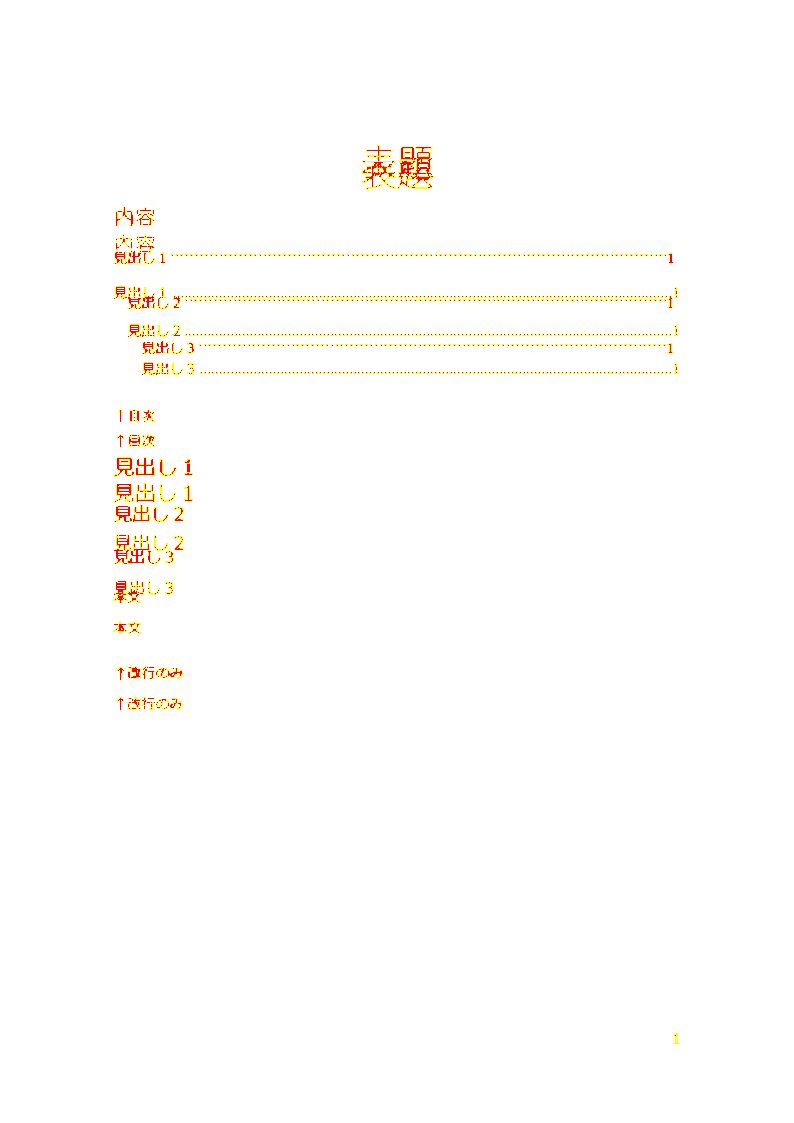
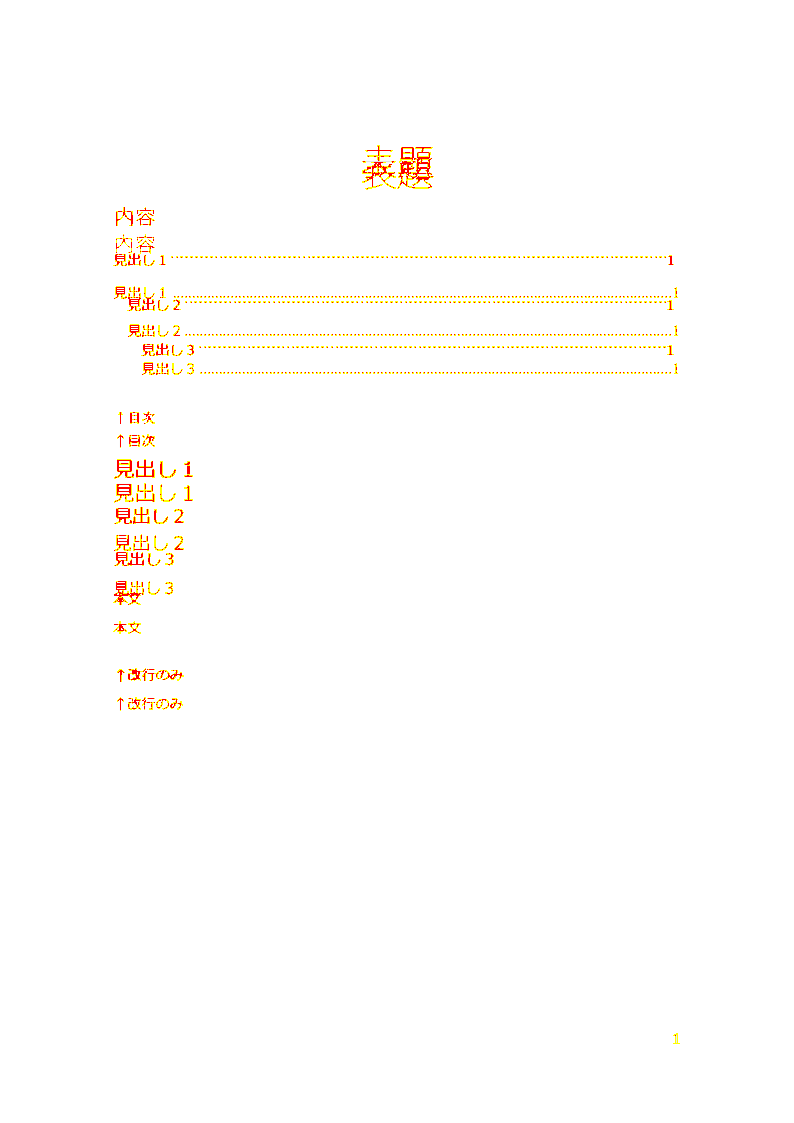
1. mixed-font line-height握り潰し（gdi-line-height.ts/inline-renderer.ts、コミット済み）— 段落が子run描画前にline-height確定、子側が別フォント(例:見出し1本文はメイリオ)でも継承値見て補正スキップしてた。forceオプションで修正。検証済み・回帰なし。 2. docGrid spacing、段落固有propsだけ見てた（inline-renderer.ts、未コミット・作業ツリーに残ってる）— style側のspacing(before/after/line)を無視して「明示spacing無し」判定→docGrid

diff --git a/src/rendering/dom/elements/inline-renderer.ts b/src/rendering/dom/elements/inline-renderer.ts
@@ -26,16 +26,21 @@ export async function renderParagraph(
 	const children = ctx.resolveFieldRuns(elem.children);
 	oParagraph.dataset.uuid = elem.uuid;
 	ctx.renderClass(elem, oParagraph);
-	// snapToGrid is inheritable through the style chain, but elem.props only ever
-	// holds what this paragraph's own pPr literally sets. Resolve the effective
-	// value (own pPr > style chain > document default style > true) so docGrid
-	// line-pitch snapping below only applies where Word would actually apply it.
+	const style = ctx.findStyle(elem.styleName);
+
+	// snapToGrid and spacing are both inheritable through the style chain, but
+	// elem.props only ever holds what this paragraph's own pPr literally sets -
+	// most paragraphs get their w:spacing/line from their style, not their own
+	// pPr. Resolving only snapToGrid while leaving spacing unresolved made the
+	// docGrid branch below see "no line spacing at all" for those paragraphs
+	// and snap them to a full grid row, clobbering the style's own (correct)
+	// line-height with an inline override of higher specificity.
 	const snapToGrid = ctx.resolveSnapToGrid(elem.styleName, elem.props.snapToGrid);
-	Object.assign(elem.cssStyle, parseLineSpacing({ ...elem.props, snapToGrid }, ctx.currentSectionProperties()));
+	const spacing = elem.props.spacing ?? style?.paragraphProps?.spacing;
+	Object.assign(elem.cssStyle, parseLineSpacing({ ...elem.props, snapToGrid, spacing }, ctx.currentSectionProperties()));
 	ctx.renderStyleValues(elem.cssStyle, oParagraph);
 	ctx.renderCommonProperties(oParagraph.style, elem.props);
 
-	const style = ctx.findStyle(elem.styleName);
 	elem.props.tabs = _.unionBy(elem.props.tabs, style?.paragraphProps?.tabs, 'position');
 
 	const numbering = elem.props.numbering ?? style?.paragraphProps?.numbering;

diff --git a/ACCURACY.md b/ACCURACY.md
@@ -8,7 +8,7 @@ Every library renders `tests/fixtures/a.docx` with `{ breakPages: true }` inside
 
 | Library | Pages rendered | Overall score |
 |---|---|---|
-| docx-renderer (this project) | 5 / 5 | **98.900%** |
+| docx-renderer (this project) | 5 / 5 | **98.899%** |
 | docx-preview-sync (fork parent) | 5 / 5 | **94.227%** |
 | docx-preview (docxjs, original) | 3 / 5 | **53.285%** |
 
@@ -16,13 +16,13 @@ Every library renders `tests/fixtures/a.docx` with `{ breakPages: true }` inside
 
 | Page | Score |
 |---|---|
-| 1 | 99.532% |
+| 1 | 99.531% |
 | 2 | 98.702% |
 | 3 | 99.787% |
 | 4 | 99.376% |
 | 5 | 97.101% |
 
-### Page 1 — 99.532%
+### Page 1 — 99.531%
 
 <p align="center">
   <img src="./accuracy/docx-renderer/page-1-reference.png" width="30%" alt="Word reference, page 1">
